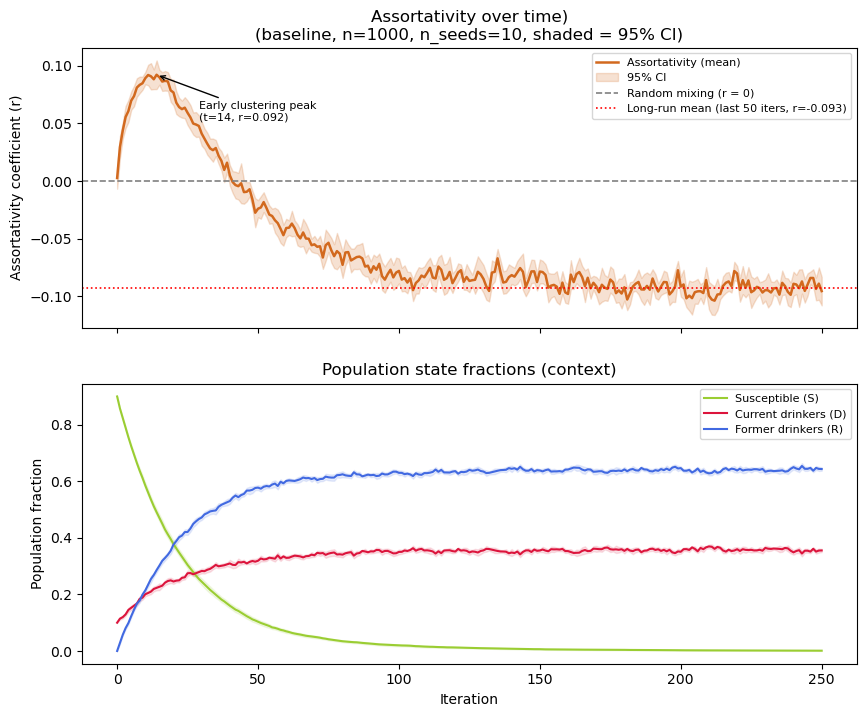
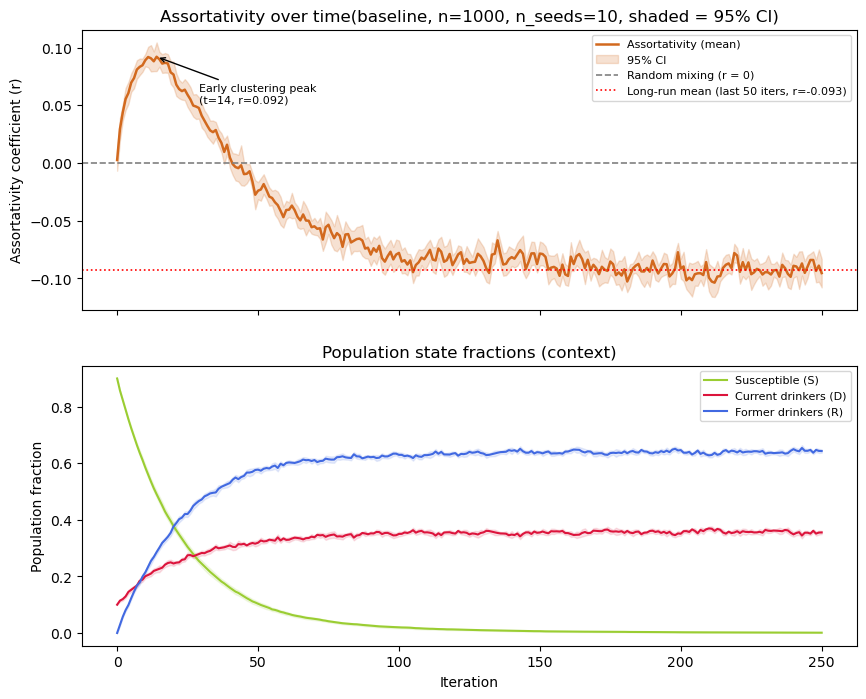
string clean up

diff --git a/src/network.py b/src/network.py
@@ -182,7 +182,7 @@ class NetworkModel:
         if not 0.0 <= self.gamma <= 1.0:
             raise ValueError("gamma must be in [0, 1]")
         
-        #new from Game Theory:
+        #extension from Game Theory:
         if not 0.0 <= self.rho <= 1.0:
             raise ValueError("rho must be in [0, 1]")
         if self.tau <= 0.0:
@@ -203,9 +203,7 @@ class NetworkModel:
         for i in self.rng.choice(self.n_agents, size=n_initial_drinkers, replace=False):
             self.agents[i].state = D
 
-        # draw per-agent loss-aversion coefficients from a Normal but cclipped at a small positive floor,
-        # instead of the old Uniform(0, 1) thresholds 
-        # this preserves population heterogeneity in risk attitude and givs lambda interpetaiton as in prospect theory
+        # draw per-agent loss-aversion coefficients from a Normal but cclipped at a small positive floor 
         lam_start_draws = self.rng.normal(self.lam_mean, self.lam_sd, size=self.n_agents)
         lam_relapse_draws = self.rng.normal(self.lam_mean, self.lam_sd, size=self.n_agents)
         lam_floor = 1e-3
@@ -215,9 +213,8 @@ class NetworkModel:
         kappa_relapse_draws = self.rng.normal(self.kappa_mean, self.kappa_sd, size=self.n_agents)
 
         age_draws = self.rng.normal(self.age_mean, self.age_sd, size=self.n_agents)
-        # Clip ages to the 16-24 young-adult window we model; at the default
-        # Normal(20, 2) only ~5% of draws fall outside it, so the clip rarely
-        # distorts the distribution.
+        # Clip ages to the 16-24 young-adult window we wanted to model; 
+        # at the default N(20, 2) only ~5% (CI is 95%) of draws fall outside it, so there is little distortion of the real distirbution
         age_draws = np.clip(age_draws, 16.0, 24.0)
 
         for i, agent in enumerate(self.agents):
@@ -236,8 +233,7 @@ class NetworkModel:
 
     def _transition(self):
         """Convert agents synchronously based on neighbourhood composition.
-        S -> D and R -> D now go through the loss-averse-utility + logit
-        pipeline. 
+        S -> D and R -> D now go through the loss-averse-utility + logit. 
         D -> R is the same as from the Gorman rule. """
         new_states = [None] * self.n_agents
 
@@ -258,9 +254,9 @@ class NetworkModel:
             if agent.state == S:
                 #effective_d_frac - d_frac scaled by agents individual susceptibility to the influence based no age
                 effective_d_frac = d_frac * agent.age_susceptibility
-                # Loss-averse utility
+                # loss-averse utility
                 delta_u = _loss_averse_utility(effective_d_frac, agent.lam_start, agent.kappa_start)
-                # Bounded rationality 
+                # bounded rationality 
                 p_drink = _logit_probability(delta_u, self.tau)
                 new_states[agent.node_id] = D if draw < p_drink else S
 